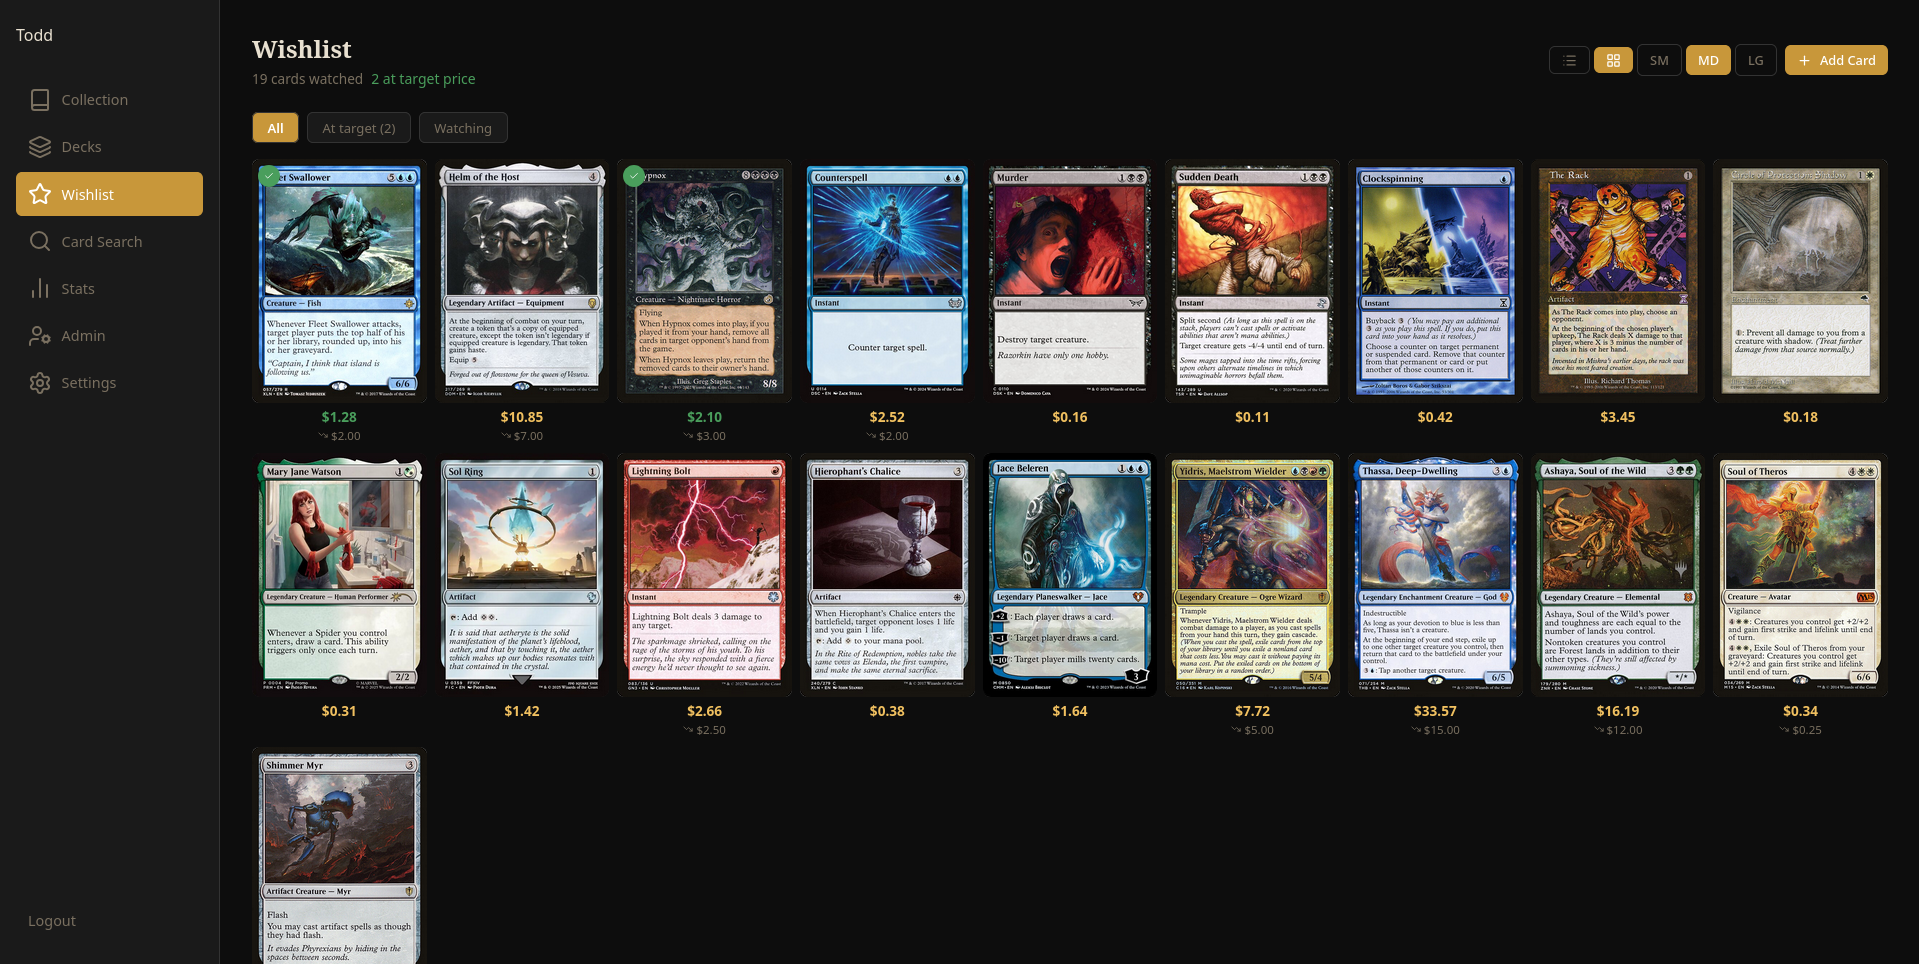
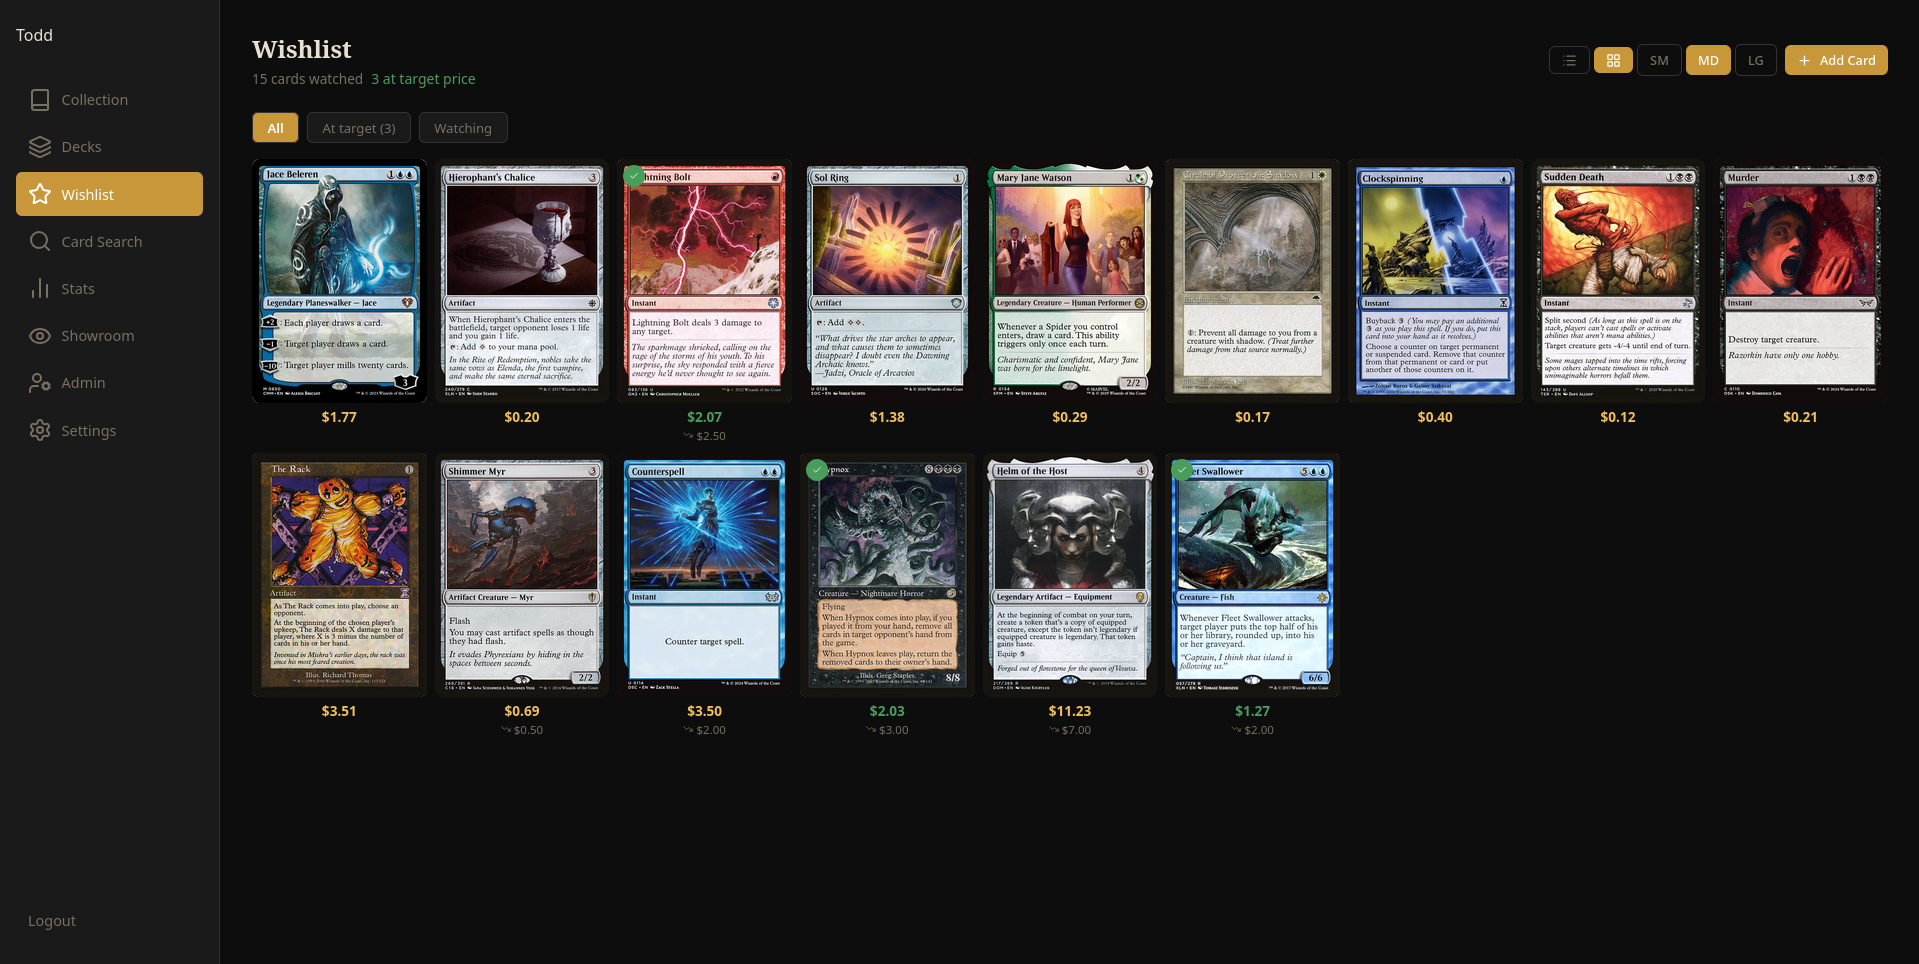
Updated `README.md` example photos to reflect new application version

diff --git a/README.md b/README.md
@@ -27,8 +27,10 @@ Self-hosted MTG card inventory server with multi-account support, collection tra
 - **Statistics** - Visual breakdowns of your collection by rarity, color, type, condition, set, and estimated value.
 
 ![Wishlist View](docs/screenshots/Wishlist_Page.png)
+![Wishlist View](docs/screenshots/Wishlist_Price_Page.png)
 - **Wishlist** - Add cards to a Wishlist to keep track of current price, 90-day price history, and alerts when cards dip below target prices.
 
+![Showroom View](docs/screenshots/Showroom_Page.png)
 - **Showroom** - Curate a public display of decks and individual cards, viewable without logging in. Suitable for a TV, tablet, or kiosk. The full collection is never exposed - only what the user explicitly selects. Can be disabled per-instance from the Settings panel.
 - **Deck Import** - Paste a Moxfield, MTGO, or Arena deck list to create a populated deck in one step, with a real-time per-card progress indicator.
 - **Multi-Account** - Admin-managed user accounts; each user has their own isolated collection.
